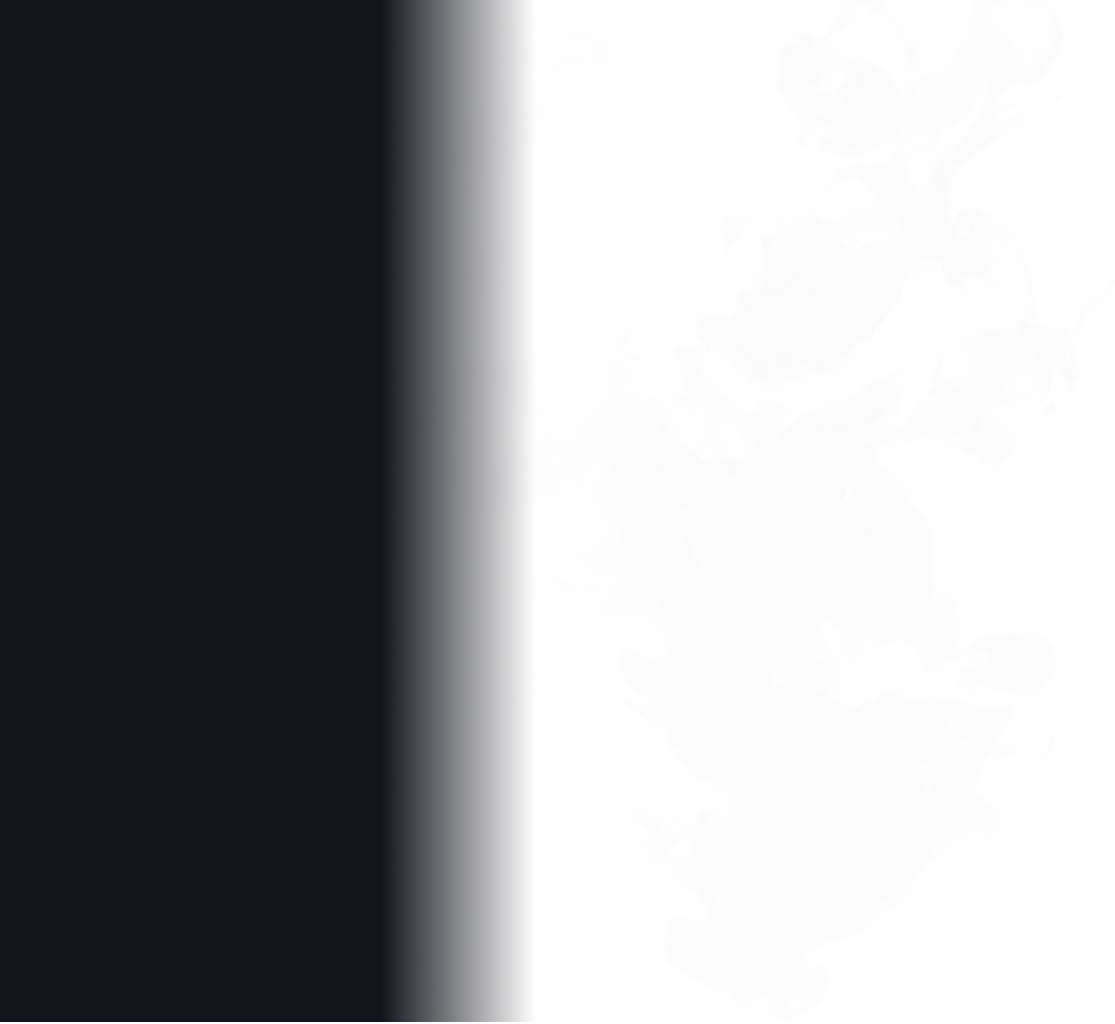
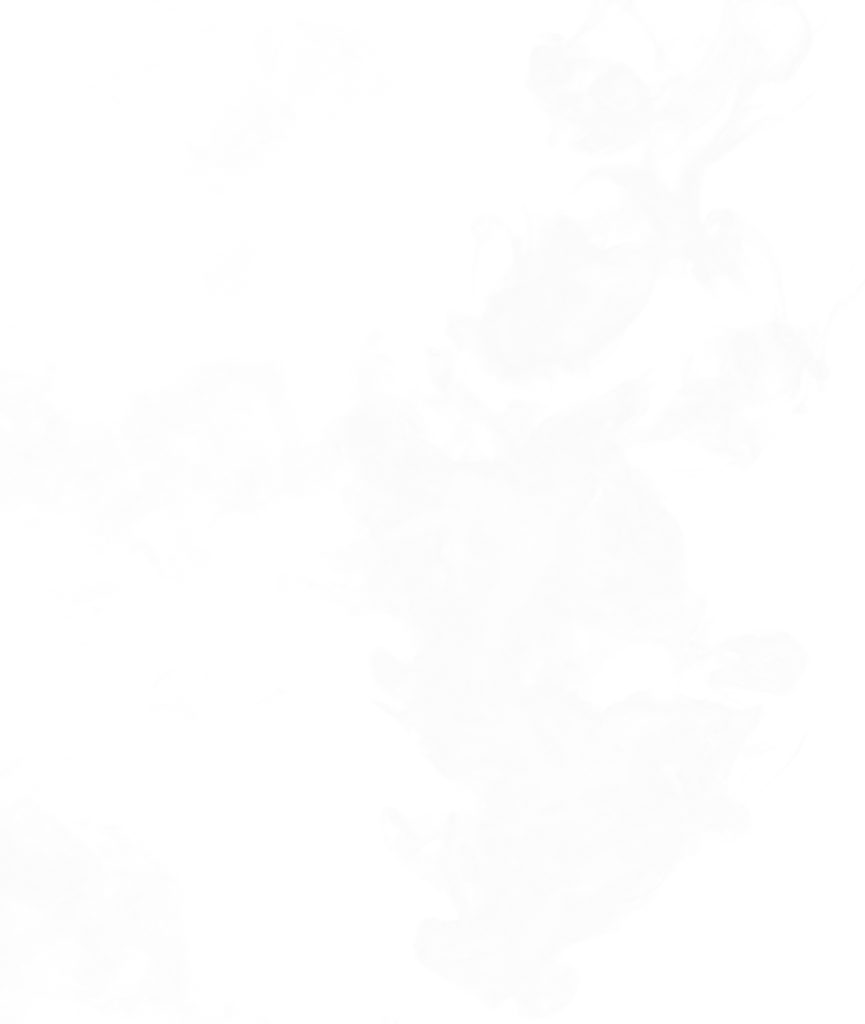
added newsletter section and footer

diff --git a/app/index.html b/app/index.html
@@ -40,7 +40,7 @@
       </div>
       <div class="header__contacts">
         <a class="header__tel" href="tel:18456317849">+1 845 631 78 49</a>
-        <button class="header__btn btn">Get a quote</button>
+        <button class="header__btn ">Get a quote</button>
       </div>
     </div>
   </header>
@@ -66,7 +66,7 @@
         We create new technologies for your business thanks to our wonderful team of professionals.
       </p>
       <div class="top__btn">
-        <a class="play-link top__btn-play" href="#">
+        <a class="btn top__btn-play" href="#">
           <img class="play-link__img" src="images/play-btn.svg" alt="play">
         </a>
         <div class="top__btn-text">
@@ -487,6 +487,91 @@ Optimization
         </div>
       </div>
     </div>
+  </section>
+  <section class="newsletter page-section">
+    <span class="number">08.</span>
+    <div class="container">
+      <div class="newsletter__inner">
+        <div class="newsletter__subscribe">
+          <span class="newsletter__subtitle subtitle">
+            newsletter
+          </span>
+          <h2 class="newsletter__title title">
+            Be always
+            In touch
+          </h2>
+          <p class="newsletter__text">
+            We are grateful to know you are interested in our content and services. Subscribe
+          </p>
+          <form class="newsletter__form" action="#" >
+            <input class="newsletter__form-input" type="text" placeholder="Email">
+            <button class="newsletter__form-btn btn" type="submit">
+              <img src="images/tg-icon.svg" alt="btn">
+            </button>
+          </form>
+        </div>
+        <div class="newsletter__quote quote">
+          <div class="quote__top">
+            <a class="quote__avatar" href="#">
+              <img class="quote__avatar-img" src="images/avatar.jpg" alt="avatar" >
+            </a>
+            <div class="quote__top-box">
+              <a class="quote__name" href="#">
+                Katerina Wilson
+              </a>
+              <p class="quote__profession">
+                CEO at Crope Design Company
+              </p>
+            </div>
+          </div>
+          <blockquote class="blockquote">
+            We never give up. Сhallenges make us stronger and more professional. Keep in mind. Beware ;)
+          </blockquote>
+          <img class="quote__signa" src="images/signa.svg" alt="signa">
+        </div>
+      </div>
+    </div>
+
+    <footer class="footer">
+      <div class="container">
+        <div class="footer__inner">
+          <div class="footer__logo">
+            <a class="logo" href="#">
+              <img src="images/logo.png" alt="logo">
+            </a>
+            <span class="footer__corp">
+              Copyright © 2020 Crope.
+            </span>
+          </div>
+          <div class="footer__working">
+            <h6 class="footer__subtitle">
+              Working hours:
+            </h6>
+            <p class="footer__text">
+              Mon - Fri: 9 am - 6 pm
+              Sat, Sun: Holiday
+            </p>
+          </div>
+
+          <address class="footer__address">
+            <h6 class="footer__subtitle">
+              Address:
+            </h6>
+            <p class="footer__text">
+              27 Division St, New York, NY 10002, USA
+            </p>
+          </address>
+
+          <div class="footer__contact">
+            <h6 class="footer__subtitle">
+              Hit us up:
+            </h6>
+            <a class="footer__contact-phone footer__link" href="tel:18456317849">+1 845 631 78 49</a>
+            <a class="footer__contact-email footer__link" href="mailto:info@sitename.com">info@sitename.com</a>
+          </div>
+        </div>
+      </div>
+    </footer>
   </section>
 
   <script src="js/main.min.js"></script>

diff --git a/app/scss/style.scss b/app/scss/style.scss
@@ -444,6 +444,7 @@
   }
   &__btn{
     @extend %btn;
+    z-index: 5;
   }
 }
 
@@ -765,8 +766,153 @@
   }
 }
 
+.newsletter{
+  background-color: $bg-two;
+  background-image: url('../images/nine-bg.png');
+  background-size: auto;
+  background-position: right 0%;
+  background-repeat: no-repeat;
+  z-index: 3;
+  &::before{
+    content: '';
+    position: absolute;
+    top: 0;
+    bottom: 0;
+    left: 0;
+    right: 25%;
+    background: linear-gradient(90deg, #12141C 75%, rgba(18, 20, 28, 0) 100%);
+    z-index: -1;
+  }
+  &__inner{
+    display: flex;
+    justify-content: space-between;
+    align-items: center;
+    padding: 250px 0 200px;
+    z-index: 4;
+  }
+  &__subscribe{
+    max-width: 470px;
+    /* margin-right: 215px; */
+  }
+  &__subtitle{
+    margin-bottom: 20px;
+  }
+  &__title{
+    margin-bottom: 40px;
+    max-width: 360px;
+  }
+  &__text{
+    max-width: 450px;
+    margin-bottom: 70px;
+  }
+  &__form{
+    display: flex;
+  }
+  &__form-input{
+    background-color: transparent;
+    border: none;
+    border-bottom: 1px solid #3A3F50;
+    color: #3A3F50;
+    margin-right: 70px;
+    width: 320px;
+    display: inline-block;
+    &::placeholder{
+      font-size: inherit;
+      line-height: inherit;
+      color: #3A3F50;
+      font-family: inherit;
+    }
+  }
+  &__form-btn{
+    background-color: transparent;
+    padding: 0;
+    border: none;
+  }
+}
 
+.quote{
+  max-width: 385px;
+  &__top{
+    display: flex;
+    margin-bottom: 60px;
+  }
+  &__avatar-img{
+    min-width: 70px;
+    height: 70px;
+    object-fit: cover;
+    overflow: hidden;
+    border-radius: 50%;
+    margin-right: 50px;
+  }
+  &__name{
+    font-size: 20px;
+    line-height: 29px;
+    color: $white;
+    @extend %poppins-500;
+    margin-bottom: 10px;
+  }
+  &__profession{
+    font-size: 16px;
+    line-height: 27px;
+  }
+}
 
+.blockquote{
+  font-size: 22px;
+  line-height: 33px;
+  @extend %poppins-300;
+  margin-bottom: 50px;
+  position: relative;
+  &::before{
+    content: '';
+    position: absolute;
+    width: 100px;
+    height: 100px;
+    bottom: -65px;
+    right: -30px;
+    background-image: url('../images/decor/icon-quote.svg');
+  }
+}
+
+.footer{
+  &__inner{
+    padding: 44px 0;
+    display: flex;
+    justify-content: space-between;
+    align-items: center;
+    border-top: 1px solid #3A3F50;
+  }
+  &__corp{
+    font-size: 14px;
+    line-height: 24px;
+    display: block;
+    margin-top: 20px;
+  }
+  &__subtitle{
+    @extend %mulish-700;
+    color: $white;
+    margin-bottom: 5px;
+    font-size: 16px;
+    line-height: 27px;
+  }
+  &__working{
+    max-width: 180px;
+  }
+  &__address{
+    max-width: 220px;
+    font-style: normal;
+  }
+  &__text{
+    font-size: 16px;
+    line-height: 27px;
+  }
+  &__link{
+    display: block;
+    color: $default;
+    font-size: 16px;
+    line-height: 27px;
+  }
+}
 
 
 

diff --git a/app/scss/_global.scss b/app/scss/_global.scss
@@ -62,8 +62,9 @@ body{
   }
 }
 
-.play-link{
+.btn{
   position: relative;
+  cursor: pointer;
   &::before{
     content: '';
     position: absolute;
